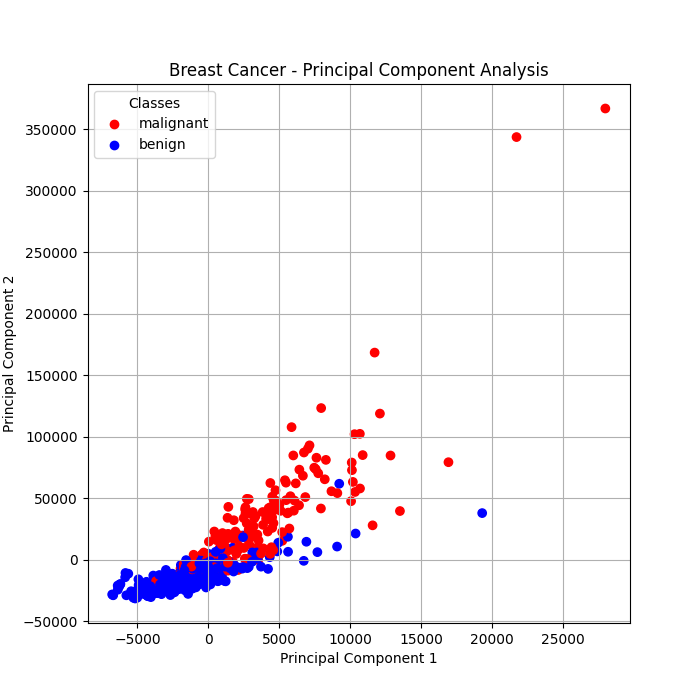
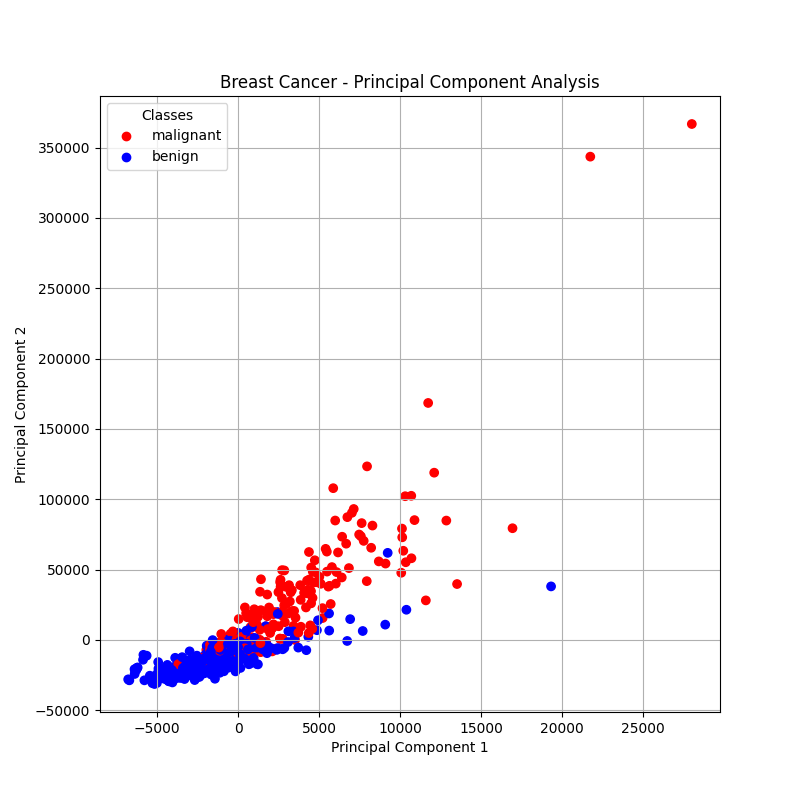
pca plots

diff --git a/utils.py b/utils.py
@@ -24,7 +24,7 @@ def visualize_pca(X_projected, y, dataset_name, class_names, savepath, is_iris):
     # extract our components to plot
     x1, x2 = X_projected[:, 0], X_projected[:, 1]
 
-    plt.figure(figsize = (7, 7))
+    plt.figure(figsize = (8, 8))
 
     if is_iris:
         sc = plt.scatter(x1, x2, c = y, cmap = plt.cm.get_cmap('viridis', 3))
